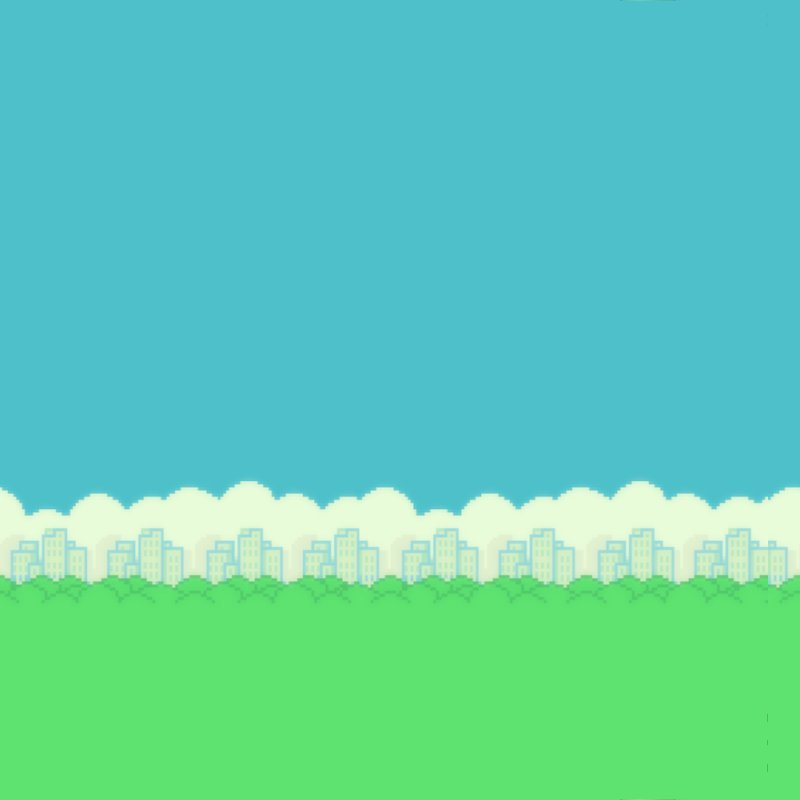
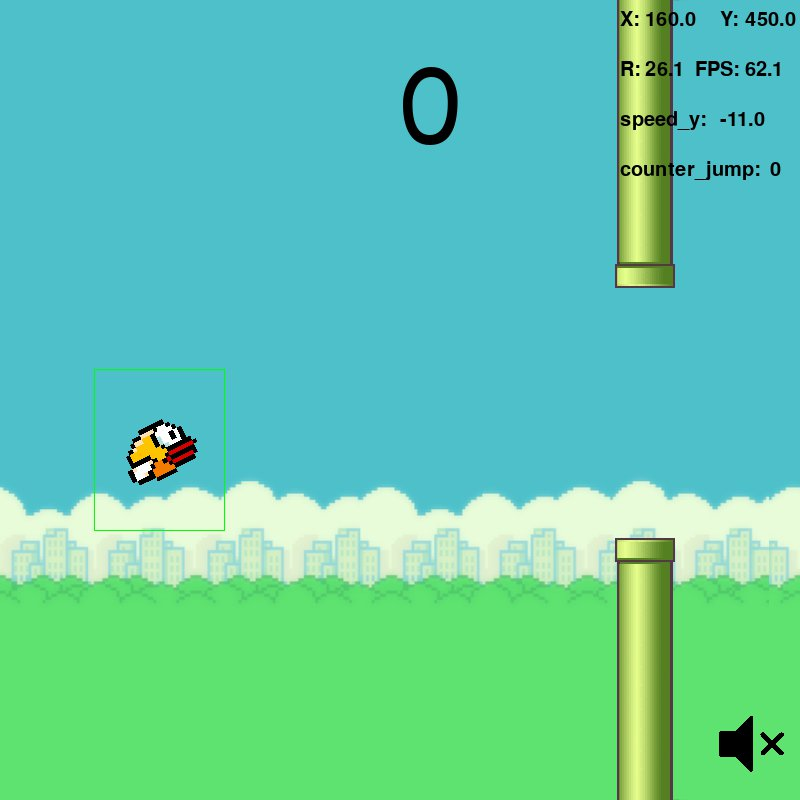
Add fun  key_pause()

diff --git a/main.py b/main.py
@@ -23,6 +23,9 @@ speed_y = 0
 jump_y_bool = False
 counter_jump = 0
 p_trig_key_space = False
+pause = False
+
+pause_trig, pause_trig_before, p_trig_pause = False, False, False
 
 score, score_trig, score_trig_before, p_trig_score = 0, False, False, False
 
@@ -50,7 +53,7 @@ mouse_is_over_the_button = False
 play_loop_music = True
 # turns music on and off
 
-music_button_plays, music_trig, music_trig_before, p_trig_music = False, False, False, False
+music_button_plays, music_trig, music_trig_before, p_trig_music = False, False, False, True
 # ------------for others-----------------------------
 trig_screenshot = True
 i = 0
@@ -180,61 +183,62 @@ def rotate(var, multip_1, multip_2):
 
 
 def move_character():
-    keys = pygame.key.get_pressed()
-    top_edge = 25
-    bottom_edge = window.get_height() - 34  # 800 - 35
-    gravity_constant = 1/2
-    power_jump = 1.5
-    set_counter = 8
-    x = 2.85 * 2
-    y = 1.05 * 2
-    rotation = None
-    global pos_y, speed_y, jump_y_bool, counter_jump, p_trig_key_space
-    global key_space_down, key_space_down_before
-    # global i
+    if not(delta_time == 0):
+        keys = pygame.key.get_pressed()
+        top_edge = 25
+        bottom_edge = window.get_height() - 34  # 800 - 35
+        gravity_constant = 1/2
+        power_jump = 1.5
+        set_counter = 8
+        x = 2.85 * 2
+        y = 1.05 * 2
+        rotation = None
+        global pos_y, speed_y, jump_y_bool, counter_jump, p_trig_key_space
+        global key_space_down, key_space_down_before
+        # global i
 
-    # the button is performed only once per press
-    if keys[pygame.K_SPACE]:
-        key_space_down = True
-        if not key_space_down_before:
-            # i+=1
-            # print("Spacja: ",i)
-            # necessary for the proper operation of the jump
-            speed_y = 0
-            key_space_down_before = True
-            p_trig_key_space = True
-    else:
-        key_space_down = False
-        key_space_down_before = False
-
-    # counter to hold down the button
-    if p_trig_key_space:
-        counter_jump += 1
-    if counter_jump > set_counter:
-        counter_jump = 0
-        p_trig_key_space = False
-
-    # if K_SPACE is trig
-    if p_trig_key_space:
-        if speed_y > -16:
-            if pos_y > top_edge:
-                speed_y -= 1 * power_jump
-        pos_y += speed_y
-        rotation = 1
-        # rotate(1, power_jump*x, gravity_constant*y)
-
-    else:  # No kay_space
-        if speed_y < 12:
-            speed_y += 1 * gravity_constant
-        if pos_y < bottom_edge:
-            pos_y += speed_y
-            rotation = -1
+        # the button is performed only once per press
+        if keys[pygame.K_SPACE]:
+            key_space_down = True
+            if not key_space_down_before:
+                # i+=1
+                # print("Spacja: ",i)
+                # necessary for the proper operation of the jump
+                speed_y = 0
+                key_space_down_before = True
+                p_trig_key_space = True
         else:
-            rotation = 0
-            # rotate(0, power_jump*x, gravity_constant*y)
-        # rotate(-1, power_jump*x, gravity_constant*y)
+            key_space_down = False
+            key_space_down_before = False
 
-    rotate(rotation, power_jump*x, gravity_constant*y)
+        # counter to hold down the button
+        if p_trig_key_space:
+            counter_jump += 1
+        if counter_jump > set_counter:
+            counter_jump = 0
+            p_trig_key_space = False
+
+        # if K_SPACE is trig
+        if p_trig_key_space:
+            if speed_y > -16:
+                if pos_y > top_edge:
+                    speed_y -= 1 * power_jump
+            pos_y += speed_y
+            rotation = 1
+            # rotate(1, power_jump*x, gravity_constant*y)
+
+        else:  # No kay_space
+            if speed_y < 12:
+                speed_y += 1 * gravity_constant
+            if pos_y < bottom_edge:
+                pos_y += speed_y
+                rotation = -1
+            else:
+                rotation = 0
+                # rotate(0, power_jump*x, gravity_constant*y)
+            # rotate(-1, power_jump*x, gravity_constant*y)
+
+        rotate(rotation, power_jump*x, gravity_constant*y)
 
 
 def drawn_character():
@@ -311,7 +315,6 @@ def drawn_buton():
 
     # ---------------------------------------------------------------------
     # do once
-
     if mouse_is_over_the_button and click_button:
         music_trig = True
         if not music_trig_before:
@@ -361,7 +364,10 @@ def clock_support():
     # const.framerate = 60
     # dt show how many milliseconds have passed since the previous call
     # the program will never run at more than const.framerate frames per second
-    delta_time = clock.tick(const.framerate)
+    if pause:
+        delta_time = 0
+    else:
+        delta_time = clock.tick(const.framerate)
     # print(delta_time, " ms")
     # print("{:.1f} FPS".format(clock.get_fps()))
     pass
@@ -370,16 +376,17 @@ def clock_support():
 def player_frame_animation(will_player_be_killed, how_many_frame, speed):
     global program_counter, delta_time, current_player_frame
 
-    if program_counter >= delta_time/speed:
-        program_counter = 0
-        if not will_player_be_killed:
-            current_player_frame += 1
+    if not(delta_time == 0):
+        if program_counter >= delta_time/speed:
+            program_counter = 0
+            if not will_player_be_killed:
+                current_player_frame += 1
 
-            if current_player_frame >= how_many_frame - 1:
-                current_player_frame = 0
-        else:
-            # the player is dead
-            current_player_frame = 3
+                if current_player_frame >= how_many_frame - 1:
+                    current_player_frame = 0
+            else:
+                # the player is dead
+                current_player_frame = 3
 
 
 def player_death_sound_event(no_mute):
@@ -419,7 +426,8 @@ def move_walls():
     for wall in walls:
         # pos y no move
         const.y_no_mpve = 0
-        wall.move_ip(-const.wall_speed / delta_time, const.y_no_mpve)
+        if not(delta_time == 0):
+            wall.move_ip(-const.wall_speed / delta_time, const.y_no_mpve)
 
 
 def moving_background():
@@ -437,10 +445,10 @@ def moving_background():
     backgroud_poz_x[1] = background_surface.get_width() + backgroud_poz_x[0]
     window.blit(background_surface, (backgroud_poz_x[1], 0))
     # first surface moving
-    backgroud_poz_x[0] -= 1
-    if backgroud_poz_x[1] == 0:
-        backgroud_poz_x[0] = 0
-    pass
+    if not(delta_time == 0):
+        backgroud_poz_x[0] -= 1
+        if backgroud_poz_x[1] == 0:
+            backgroud_poz_x[0] = 0
 
 
 def background_on_off(background_yes):
@@ -492,6 +500,33 @@ def count_points(do_fun, no_mute):
             score_sound_event(no_mute)
             # print("Score: ",score)
             p_trig_score = False
+
+
+def key_pause():
+    # do once
+    # global i
+    global pause, pause_trig, pause_trig_before, p_trig_pause
+    keys = pygame.key.get_pressed()
+
+    if keys[pygame.K_p]:
+        pause_trig = True
+        if not pause_trig_before:
+            pause_trig_before = True
+            p_trig_pause = True
+        pass
+    else:
+        pause_trig = False
+        pause_trig_before = False
+        pass
+
+    if p_trig_pause:
+        # i += 1
+        # print("Pause: ",i)
+        if pause:
+            pause = False
+        else:
+            pause = True
+        p_trig_pause = False
 
 
 ###---------------------------------GAMING-LOOP---------------------------------###
@@ -568,6 +603,8 @@ while running:
 
     count_points(True, True)
     show_score()
+
+    key_pause()
 
     # make screenshot after 0.5 sec
     screenshot_fun(0.5)
